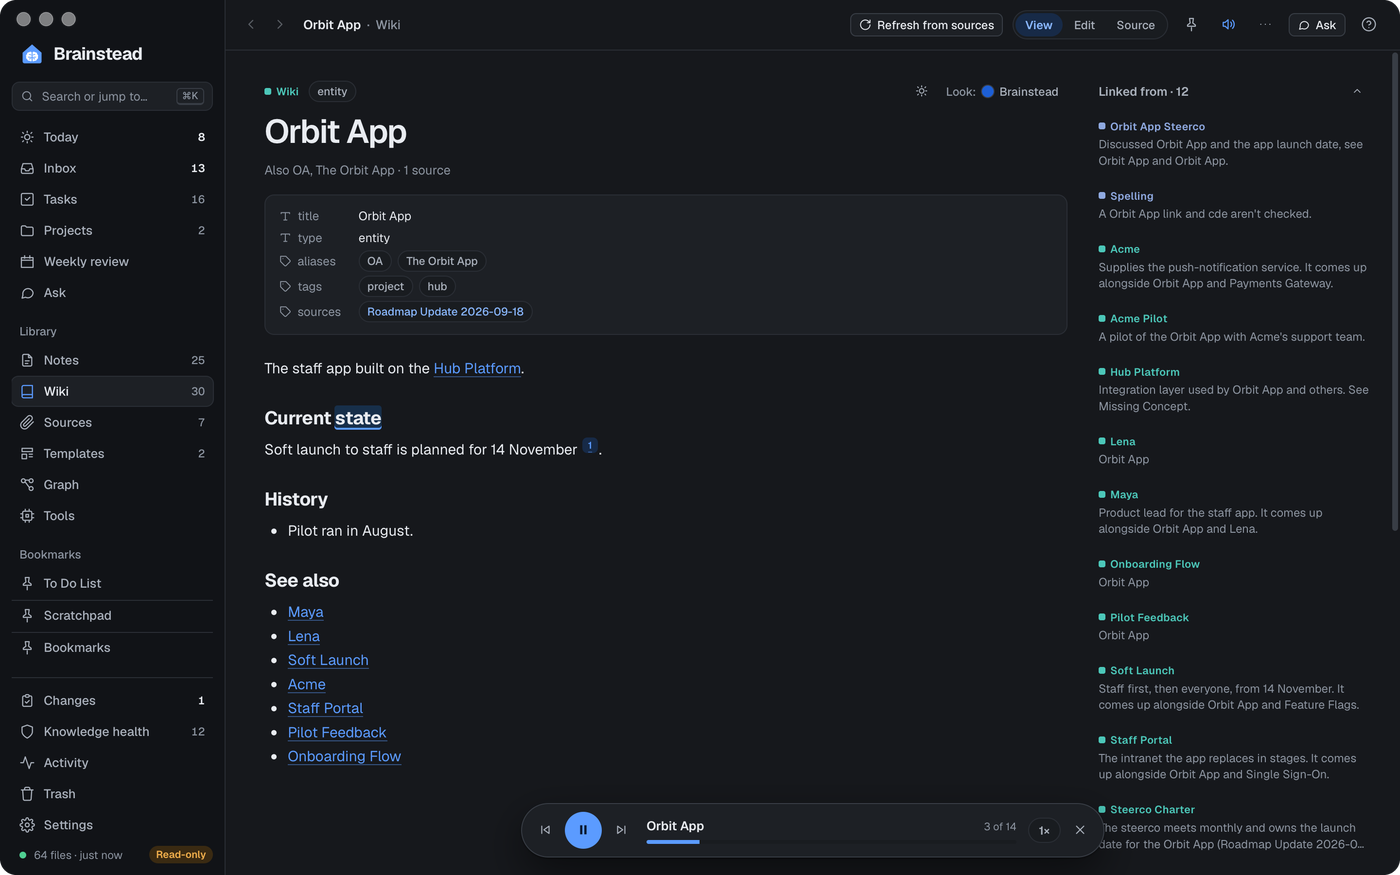
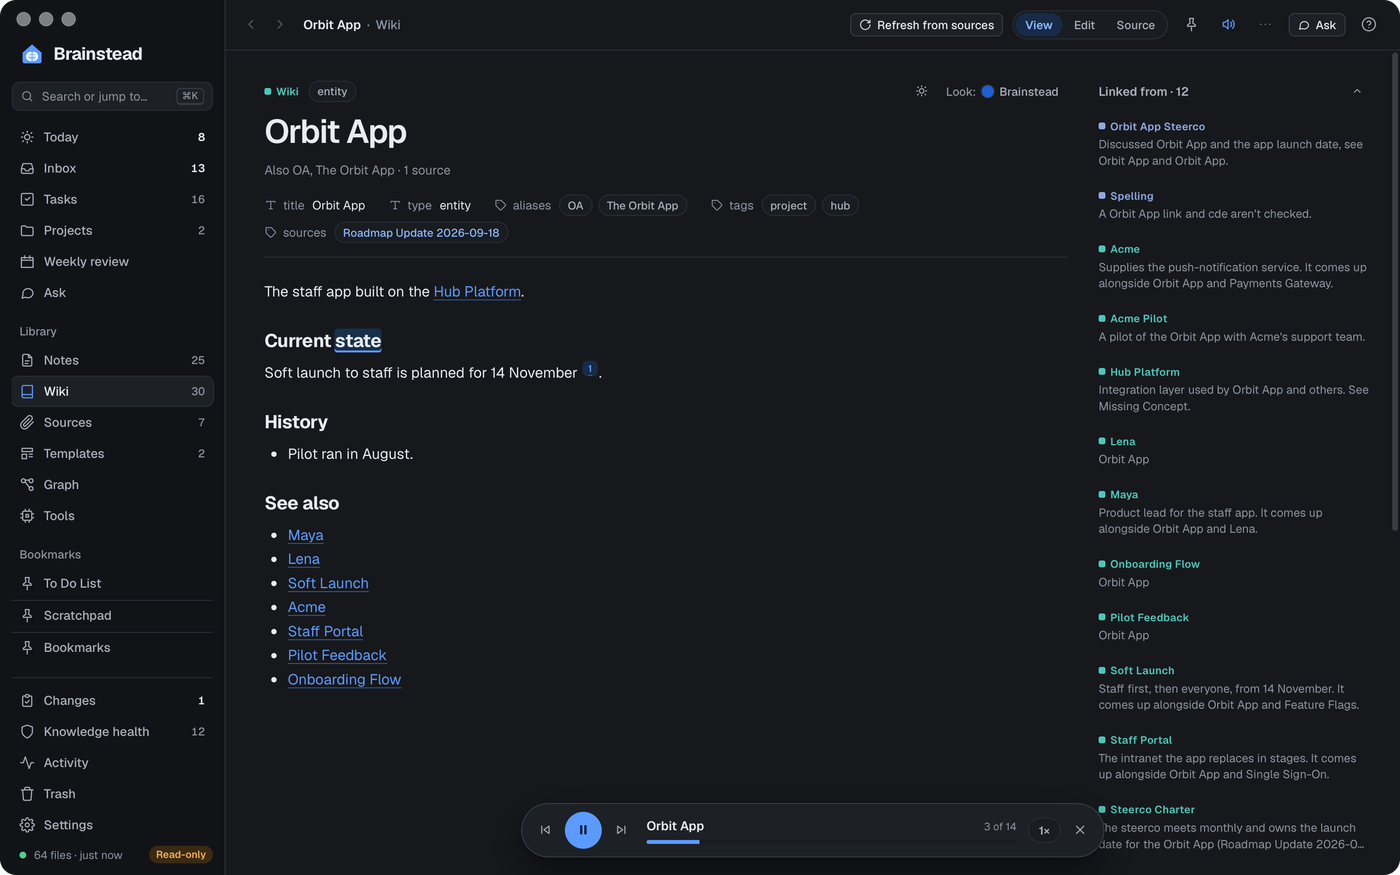
UX refresh, the rest: Knowledge health's summary and check lists, and Suggested from your notes on Tasks and Projects, lose their boxes; a note's properties are name and value pairs in a wrapping line above a rule; a project keeps Mark complete (or Make active) and Edit, with Put on hold, Someday, A

diff --git a/src/Projects.tsx b/src/Projects.tsx
@@ -32,7 +32,7 @@ import { DraftNudge, GtdChips, TaskList } from "./TaskList";
 import { useVaultVersion } from "./state";
 import { reportEditError, undoLast, useAllTasks } from "./taskModel";
 import { toast } from "./Toast";
-import { askLink, askQuote, TopBar } from "./TopBar";
+import { askLink, askQuote, MoreMenu, TopBar } from "./TopBar";
 import { ago, Dialog, fmtCount, Seg } from "./ui";
 
 /** ⌘K's New project: the Projects screen opens with New project showing. */
@@ -556,29 +556,6 @@ function ProjectDetail({ p, all }: { p: ProjectRow; all: ReturnType<typeof useAl
               Make active
             </button>
           )}
-          {p.status === "active" && (
-            <button
-              type="button"
-              className="btn"
-              title="Pause the project; it moves to the On hold tab"
-              onClick={() => void set("status", "on-hold", `${p.name} on hold`)}
-            >
-              <Icon name="waiting" size={14} />
-              Put on hold
-            </button>
-          )}
-          {p.status !== "someday" && (
-            <button
-              type="button"
-              className="btn"
-              title="Park the project for some day; it moves to the Someday tab"
-              onClick={() => void set("status", "someday", `${p.name} moved to someday`)}
-            >
-              <Icon name="someday" size={14} />
-              Someday
-            </button>
-          )}
-          <span className="grow" />
           <button
             type="button"
             className="btn ghost"
@@ -588,24 +565,45 @@ function ProjectDetail({ p, all }: { p: ProjectRow; all: ReturnType<typeof useAl
             <Icon name="pencil" size={14} />
             Edit
           </button>
-          <button
-            type="button"
-            className="btn ghost"
-            title="Open Ask with the project note attached, to ask the model about it"
-            onClick={() => askAboutNote(p.path)}
-          >
-            <Icon name="ask" size={14} />
-            Ask about this project
-          </button>
-          <button
-            type="button"
-            className="btn ghost danger"
-            title="Move the project note to the Trash, after asking first"
-            onClick={() => setDeleting(true)}
-          >
-            <Icon name="trash" size={14} />
-            Move to the Trash
-          </button>
+          {/* The project's other moves under More, so it has one main action. */}
+          <MoreMenu
+            title="Put on hold, Someday, Ask about this project, Move to the Trash"
+            items={[
+              ...(p.status === "active"
+                ? [
+                    {
+                      label: "Put on hold",
+                      icon: "waiting",
+                      title: "Pause the project; it moves to the On hold tab",
+                      run: () => void set("status", "on-hold", `${p.name} on hold`),
+                    },
+                  ]
+                : []),
+              ...(p.status !== "someday"
+                ? [
+                    {
+                      label: "Someday",
+                      icon: "someday",
+                      title: "Park the project for some day; it moves to the Someday tab",
+                      run: () => void set("status", "someday", `${p.name} moved to someday`),
+                    },
+                  ]
+                : []),
+              {
+                label: "Ask about this project",
+                icon: "ask",
+                title: "Open Ask with the project note attached, to ask the model about it",
+                run: () => askAboutNote(p.path),
+              },
+              {
+                label: "Move to the Trash",
+                icon: "trash",
+                title: "Move the project note to the Trash, after asking first",
+                run: () => setDeleting(true),
+                danger: true,
+              },
+            ]}
+          />
         </div>
       </div>
       <aside className="pside">

diff --git a/src/styles.css b/src/styles.css
@@ -1605,15 +1605,16 @@ mark.search-hit {
   -webkit-box-orient: vertical;
   overflow: hidden;
 }
+
+/* A note's properties: name and value pairs in a line that wraps, above a rule, not a box. */
 .props {
-  display: grid;
-  grid-template-columns: max-content minmax(0, 1fr);
-  gap: 4px 18px;
+  display: flex;
+  flex-wrap: wrap;
+  align-items: center;
+  gap: 6px 24px;
   margin: 0 0 22px;
-  padding: 12px 14px;
-  border: 1px solid var(--line);
-  border-radius: 10px;
-  background: var(--surface);
+  padding: 0 0 14px;
+  border-bottom: 1px solid var(--line);
   font-size: 12.5px;
 }
 .props.err {
@@ -1621,7 +1622,10 @@ mark.search-hit {
   color: var(--amber);
 }
 .prop {
-  display: contents;
+  display: inline-flex;
+  align-items: center;
+  gap: 8px;
+  min-width: 0;
 }
 .props dt {
   color: var(--ink3);
@@ -2490,8 +2494,8 @@ details.callout[open] .callout-chev {
    today; Coming up this week, Waiting for and Deferred until now), and a right rail. */
 .body.today {
   display: grid;
-  grid-template-columns: minmax(0, 1fr) 320px;
-  gap: 28px;
+  grid-template-columns: minmax(0, 1100px) 320px;
+  gap: 40px;
   padding: 28px 24px 60px 40px;
   align-items: start;
 }
@@ -7182,7 +7186,7 @@ select.sel {
   border-radius: 0;
 }
 .hsum {
-  padding: 16px 18px;
+  padding: 0 0 4px;
   display: flex;
   align-items: center;
   gap: 28px;
@@ -7216,8 +7220,7 @@ select.sel {
   overflow: hidden;
 }
 .hgroup {
-  padding: 10px 14px;
-  background: var(--sunk);
+  padding: 0 0 8px;
   border-bottom: 1px solid var(--line);
 }
 .ck {
@@ -7226,7 +7229,7 @@ select.sel {
   gap: 10px;
   width: 100%;
   height: 38px;
-  padding: 0 14px;
+  padding: 0 6px;
   border: 0;
   border-top: 1px solid var(--line);
   background: none;
@@ -7260,7 +7263,7 @@ select.sel {
   color: var(--ink3);
 }
 .ckitems {
-  padding: 4px 14px 12px 38px;
+  padding: 4px 6px 12px 30px;
   background: var(--sunk);
   display: flex;
   flex-direction: column;
@@ -9680,12 +9683,17 @@ html.tray-view body {
 .card.found {
   margin: 12px 16px 16px;
 }
+
+/* Suggested from your notes, at the top of Tasks and Projects: a heading and rows, no box. */
+.found {
+  border-bottom: 1px solid var(--line);
+}
 .foundhead,
 .foundrow {
   display: flex;
   align-items: center;
   gap: 8px;
-  padding: 10px 14px;
+  padding: 8px 12px;
 }
 .foundhead > svg {
   color: var(--accent);

diff --git a/src/Found.tsx b/src/Found.tsx
@@ -132,7 +132,7 @@ export function FoundTasks() {
   const s = useStore(found);
   const rows = (s?.suggestions ?? []).filter((g) => g.kind === "task");
   return (
-    <section className="card found">
+    <section className="found">
       <div className="foundhead">
         <Icon name="zap" size={14} />
         <span className="pt grow">{rows.length ? `${rows.length} suggested from your notes` : "Tasks in your notes"}</span>
@@ -209,7 +209,7 @@ export function FoundProjects() {
   const s = useStore(found);
   const rows = (s?.suggestions ?? []).filter((g) => g.kind === "project");
   return (
-    <section className="card found">
+    <section className="found">
       <div className="foundhead">
         <Icon name="zap" size={14} />
         <span className="pt grow">{rows.length ? `${rows.length} suggested from your notes` : "Projects in your notes"}</span>

diff --git a/src/TopBar.tsx b/src/TopBar.tsx
@@ -65,6 +65,8 @@ export interface MoreItem {
   title: string;
   run: () => void;
   disabled?: boolean;
+  /** Shown in red: it moves something to the Trash. */
+  danger?: boolean;
 }
 
 /** A top bar's "…": the screen's less used actions, so the bar keeps one or two of its own. */
@@ -91,6 +93,7 @@ export function MoreMenu({ items, title }: { items: MoreItem[]; title: string })
                 key={i.label}
                 type="button"
                 role="menuitem"
+                className={i.danger ? "danger" : undefined}
                 title={i.title}
                 disabled={i.disabled}
                 onClick={() => {

diff --git a/src/Health.tsx b/src/Health.tsx
@@ -221,7 +221,7 @@ export function HealthScreen() {
       </TopBar>
       <div className="body health">
         <div className="hmain">
-          <div className="card hsum">
+          <div className="hsum">
             <div className="hnum">
               <span className="eyebrow">Need a decision</span>
               <b>{r ? need : "…"}</b>
@@ -356,7 +356,7 @@ function Group({
   on: Handlers;
 }) {
   return (
-    <div className="card hchecks">
+    <div className="hchecks">
       <div className="hgroup eyebrow">{title}</div>
       {checks.map((c) => {
         const n = c.items.length;

diff --git a/src/help/projects.md b/src/help/projects.md
@@ -26,14 +26,14 @@ Click a project to open it. Edit its name, **Done looks like** (the outcome) and
 The side shows the project note, notes that link it, wiki pages it links, recent activity and what's done (cancelled tasks struck through).
 
 ## Change its status
-The buttons under the tasks change only the note's status:
+Under the tasks are **Mark complete** (or **Make active**), **Edit** and ⋯. They change only the note's status:
 
 - **Mark complete** moves it to Completed.
-- **Put on hold** moves an active project to On hold.
-- **Someday** parks it on Someday.
 - **Make active** brings it back to Active.
+- **Put on hold** (on ⋯) moves an active project to On hold.
+- **Someday** (on ⋯) parks it on Someday.
 
-**Ask about this project** opens [Ask](app:ask) with the project note attached. **Move to the Trash** says how many tasks are in the note and how many elsewhere link it, then moves it to the [Trash](app:trash). **Undo** in the toast, or restoring it, brings it back; until then, tasks elsewhere link a missing note.
+**Ask about this project** (on ⋯) opens [Ask](app:ask) with the project note attached. **Move to the Trash** (on ⋯) says how many tasks are in the note and how many elsewhere link it, then moves it to the [Trash](app:trash). **Undo** in the toast, or restoring it, brings it back; until then, tasks elsewhere link a missing note.
 
 ## Find projects in your notes
 At the top of the **Active** projects, **Find tasks and projects** has an assistant read your last 90 days of notes for work they keep coming back to that isn't a project yet. Each suggestion has a name, what done looks like, the notes it rests on and up to three next actions. Suggested tasks show at the top of [Tasks](app:tasks).
